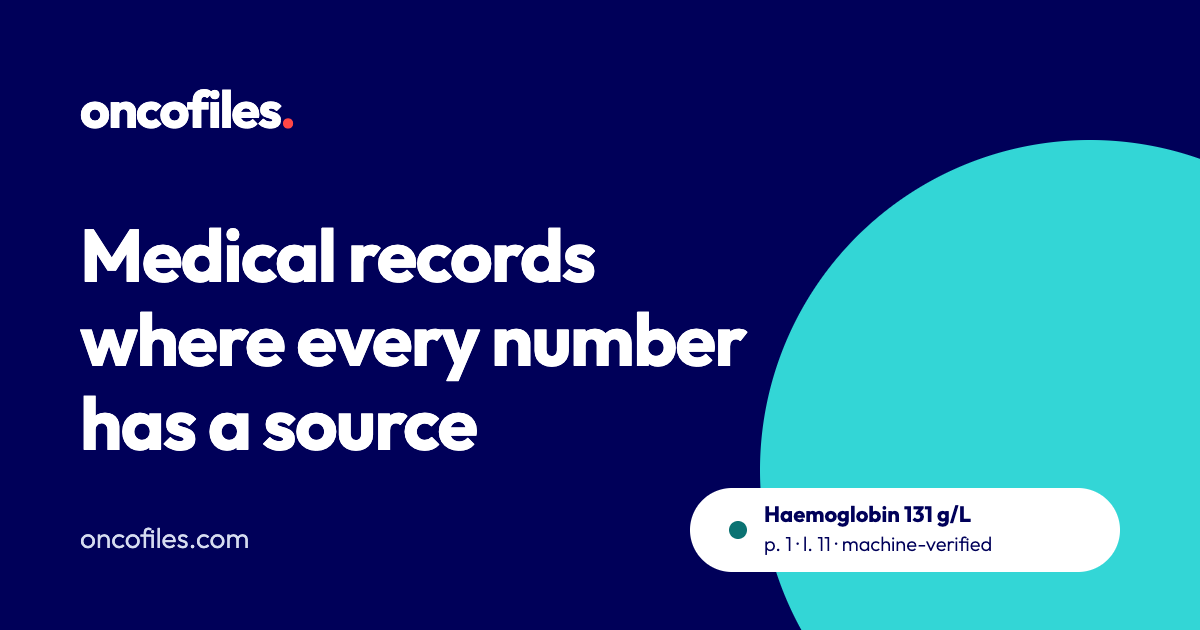
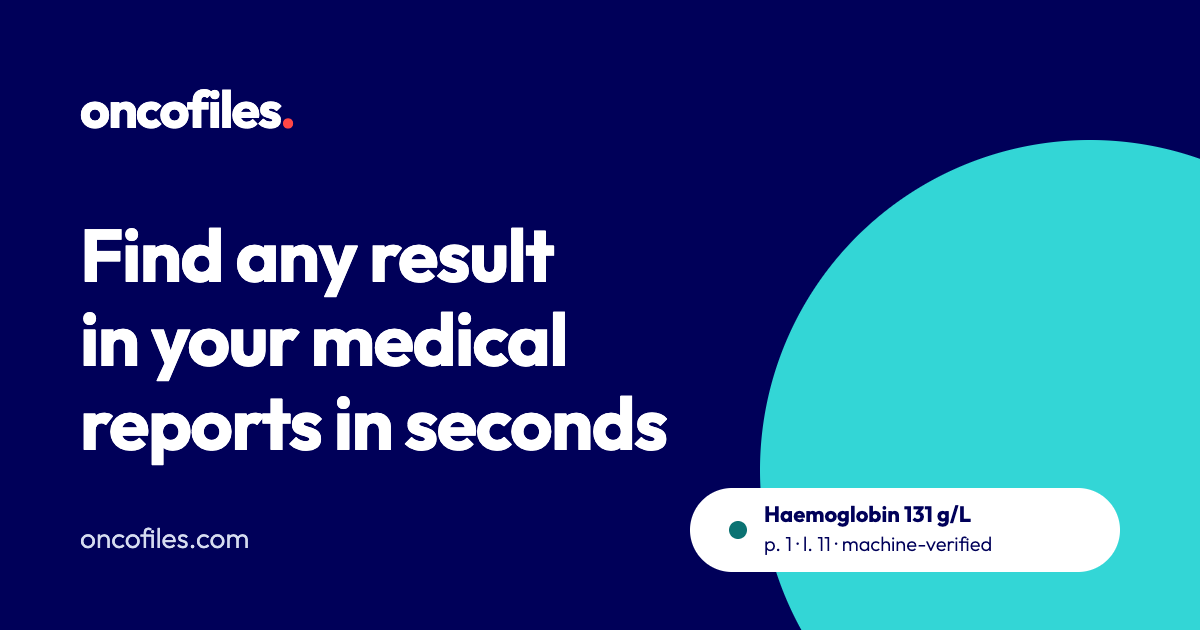
Hero: Claude only (ChatGPT is still marked coming soon); new line on the link card, llms.txt and the sign-in page
The landing marks ChatGPT and Gemini CLI as not yet re-verified on the new
server, so the hero names only Claude, and the MCP step says "your AI
assistant". The maintainer approved the new hero and asked for the same line on
the link card (og-image, re-rendered with headless Chrome) and in llms.txt;
the dashboard sign-in tagline follows. Published LinkedIn posts are not edited.

diff --git a/src/oncofiles/landing.html b/src/oncofiles/landing.html
@@ -1048,7 +1048,7 @@
         <div class="hero-copy">
           <p class="tagline" data-sk="Pre pacientov a ich blízkych, ktorí sa starajú o lekárske správy" data-en="For patients and families who look after the medical paperwork">Pre pacientov a ich blízkych, ktorí sa starajú o lekárske správy</p>
           <h1 id="hero-title" data-sk="Každý výsledok z lekárskych správ nájdete za pár sekúnd." data-en="Find any result in your medical reports in seconds.">Každý výsledok z lekárskych správ nájdete za pár sekúnd.</h1>
-          <p class="lede" data-sk="Správy, výsledky a fotky z mobilu dáte do priečinka na Google Drive. Oncofiles ich prečíta, pomenuje a roztriedi. Potom sa spýtate v Claude alebo ChatGPT, napríklad „Ako sa mi menilo CEA od januára?“, a pri každom čísle uvidíte správu a stranu, z ktorej je." data-en="Put your reports, lab results and phone photos into a Google Drive folder. Oncofiles reads, names and sorts them. Then ask Claude or ChatGPT, for example “How has my CEA changed since January?”, and every number comes with the report and page it is from.">Správy, výsledky a fotky z mobilu dáte do priečinka na Google Drive. Oncofiles ich prečíta, pomenuje a roztriedi. Potom sa spýtate v Claude alebo ChatGPT, napríklad „Ako sa mi menilo CEA od januára?“, a pri každom čísle uvidíte správu a stranu, z ktorej je.</p>
+          <p class="lede" data-sk="Správy, výsledky a fotky z mobilu dáte do priečinka na Google Drive. Oncofiles ich prečíta, pomenuje a roztriedi. Potom sa spýtate v Claude, napríklad „Ako sa mi menilo CEA od januára?“, a pri každom čísle uvidíte správu a stranu, z ktorej je." data-en="Put your reports, lab results and phone photos into a Google Drive folder. Oncofiles reads, names and sorts them. Then ask Claude, for example “How has my CEA changed since January?”, and every number comes with the report and page it is from.">Správy, výsledky a fotky z mobilu dáte do priečinka na Google Drive. Oncofiles ich prečíta, pomenuje a roztriedi. Potom sa spýtate v Claude, napríklad „Ako sa mi menilo CEA od januára?“, a pri každom čísle uvidíte správu a stranu, z ktorej je.</p>
           <!-- Trial paths (GET /api/public-config): until it answers "open", the
                page promises no self-service; the e-mail path shows only while the
                inbound welcome address is live (the address is filled in from the
@@ -1574,7 +1574,7 @@ Nič sa nemaže, len presúva do koša.
             <span class="step-n"><span class="sr-only" data-sk="Krok" data-en="Step">Krok</span> 5</span>
             <div>
               <h3 data-sk="Vaša AI sa pripája cez MCP" data-en="Your AI connects through MCP">Vaša AI sa pripája cez MCP</h3>
-              <p class="lead" data-sk="Claude alebo ChatGPT potom odpovedá z vašich dokumentov, nie z pamäti" data-en="Claude or ChatGPT then answers from your documents, not from memory">Claude alebo ChatGPT potom odpovedá z vašich dokumentov, nie z pamäti</p>
+              <p class="lead" data-sk="Váš AI asistent potom odpovedá z vašich dokumentov, nie z pamäti" data-en="Your AI assistant then answers from your documents, not from memory">Váš AI asistent potom odpovedá z vašich dokumentov, nie z pamäti</p>
             </div>
           </div>
           <p class="vz-intro" data-sk="O svojom zdraví sa ľudia už dnes rozprávajú s ChatGPT, Claude alebo s AI agentom: o trendoch, posledných výsledkoch aj diagnózach. Chýba im spoľahlivý zdroj, z ktorého by tá odpoveď vychádzala. Oncofiles ho dáva: vaše dokumenty prečítané, roztriedené a zapísané podľa zdravotníckych štandardov, s pôvodom každého údaja. A dáta pritom zostávajú pod vašou kontrolou, vo vašom Google Drive, takže od Oncofiles môžete kedykoľvek odísť." data-en="People already talk about their health with ChatGPT, Claude or an AI agent: trends, latest results, diagnoses. What that conversation lacks is a source it can trust. Oncofiles provides it: your documents read, filed and recorded to medical standards, with the origin of every fact. Meanwhile the data stays under your control, in your own Google Drive, so you can move away from Oncofiles at any time.">O svojom zdraví sa ľudia už dnes rozprávajú s ChatGPT, Claude alebo s AI agentom: o trendoch, posledných výsledkoch aj diagnózach. Chýba im spoľahlivý zdroj, z ktorého by tá odpoveď vychádzala. Oncofiles ho dáva: vaše dokumenty prečítané, roztriedené a zapísané podľa zdravotníckych štandardov, s pôvodom každého údaja. A dáta pritom zostávajú pod vašou kontrolou, vo vašom Google Drive, takže od Oncofiles môžete kedykoľvek odísť.</p>

diff --git a/src/oncofiles/dashboard.html b/src/oncofiles/dashboard.html
@@ -20,7 +20,7 @@
  <div id="auth-gate" class="auth-gate tone-navy" style="display:none">
  <div class="gate-body">
  <div class="logo">oncofiles<span class="logo-dot">.</span><span class="logo-sub">dashboard</span></div>
- <p class="gate-tagline" data-sk="Zdravotné záznamy, v ktorých má každé číslo svoj zdroj" data-en="Medical records where every number has a source">Medical records where every number has a source</p>
+ <p class="gate-tagline" data-sk="Každý výsledok z lekárskych správ nájdete za pár sekúnd" data-en="Find any result in your medical reports in seconds">Find any result in your medical reports in seconds</p>
  <p id="auth-connect-note" class="gate-tagline" style="display:none" data-sk="Prihláste sa, aby sa konektor (Claude.ai, ChatGPT) prepojil s vaším účtom. Potom sa vrátite späť automaticky." data-en="Sign in so the connector (Claude.ai, ChatGPT) is linked to your account. You will be sent back automatically.">Sign in so the connector (Claude.ai, ChatGPT) is linked to your account. You will be sent back automatically.</p>
  <div id="g_id_signin"></div>
  <div id="auth-error" class="auth-error" role="alert"></div>

diff --git a/src/oncofiles/server.py b/src/oncofiles/server.py
@@ -3254,7 +3254,8 @@ async def llms_txt(request: Request) -> HTMLResponse:
     tools_count = _count_tools()
     return HTMLResponse(
         f"# Oncofiles\n"
-        f"> Medical records where every number has a source\n"
+        f"> Find any result in your medical reports in seconds,"
+        f" with the report and page it is from\n"
         f"\n"
         f"## About\n"
         f"Oncofiles is an open-source MCP (Model Context Protocol) server for cancer\n"
@@ -3331,7 +3332,8 @@ async def llms_sk_txt(request: Request) -> HTMLResponse:
     tools_count = _count_tools()
     return HTMLResponse(
         f"# Oncofiles\n"
-        f"> Zdravotné záznamy, v ktorých má každé číslo svoj zdroj\n"
+        f"> Každý výsledok z lekárskych správ nájdete za pár sekúnd,"
+        f" aj so správou a stranou, z ktorej je\n"
         f"\n"
         f"## O projekte\n"
         f"Oncofiles je open-source MCP (Model Context Protocol) server pre onkologických\n"
